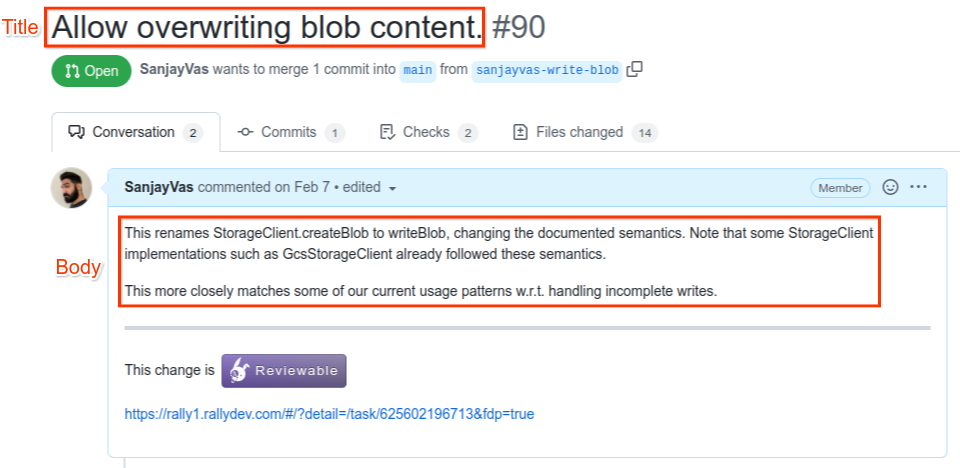
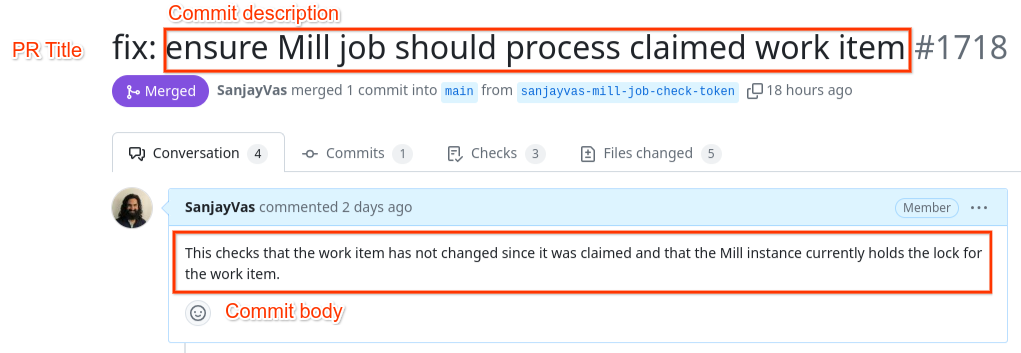
docs: Update Dev Standards doc for Conventional Commits

diff --git a/docs/dev-standards.md b/docs/dev-standards.md
@@ -11,22 +11,25 @@ repositories owned by the WFA.
 
 ### Pull Request Description
 
-The title of a pull request (PR) should be a short summary of what is being done
-by the PR. This should be a complete imperative (written as if it were an order)
-sentence. For example, "Delete the Foo method from the Bar service." as opposed
-to "Deletes the Foo method from the Bar service."
+The pull request (PR) description is also used to populate the commit message
+when the PR is merged. New commits should adhere to the
+[Conventional Commits](https://www.conventionalcommits.org/) specification, with
+the addendum that the breaking change indicator (`!`) must be used for any
+change that needs to be mentioned in the release notes. The first line of the
+commit message corresponds to the PR title, and the body and footers correspond
+to the PR description body.
 
-The body of a PR description is optional, and should be used to add additional
-context.
+The `description` element of the commit message should be a short summary of
+what is being done by the PR. This should be a complete imperative (written as
+if it were an order) sentence. For example, "Delete the Foo method from the Bar
+service." as opposed to "Deletes the Foo method from the Bar service."
 
-[Example pull request:](https://github.com/world-federation-of-advertisers/common-jvm/pull/90)
+The `body` and `footer(s)` elements of the commit message are optional, and
+should be used to add additional context.
+
+[Example pull request:](https://github.com/world-federation-of-advertisers/cross-media-measurement/pull/1718)
 
 ![example pull request body](dev-std-body-ex.png)
-
-Make sure to adjust the final merge description when merging a PR, as GitHub by
-default generates an undesirable body.
-
-![example pull request title+body](dev-std-title-body-ex.png)
 
 ### Use Reviewable
 
